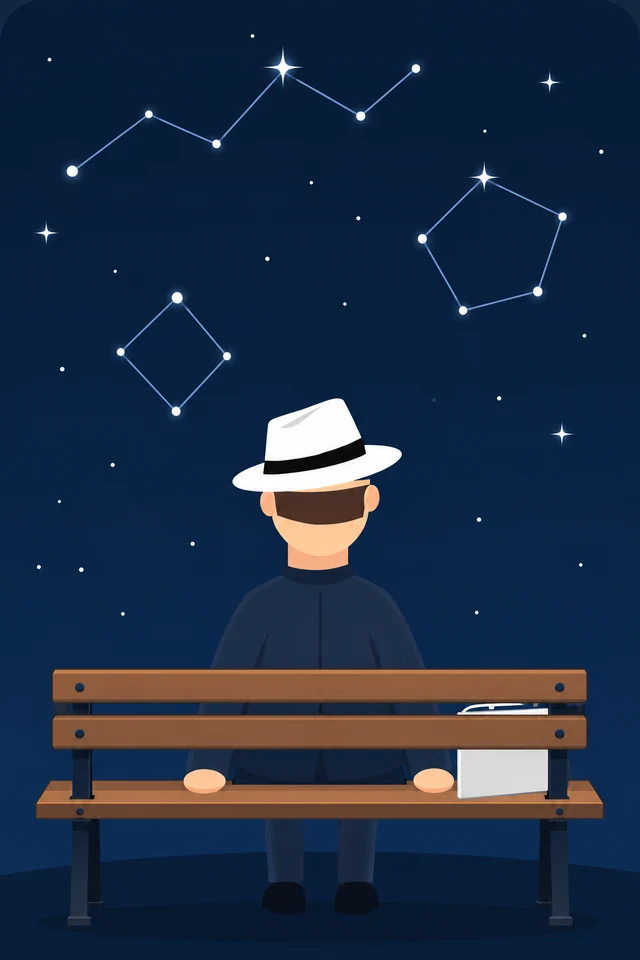
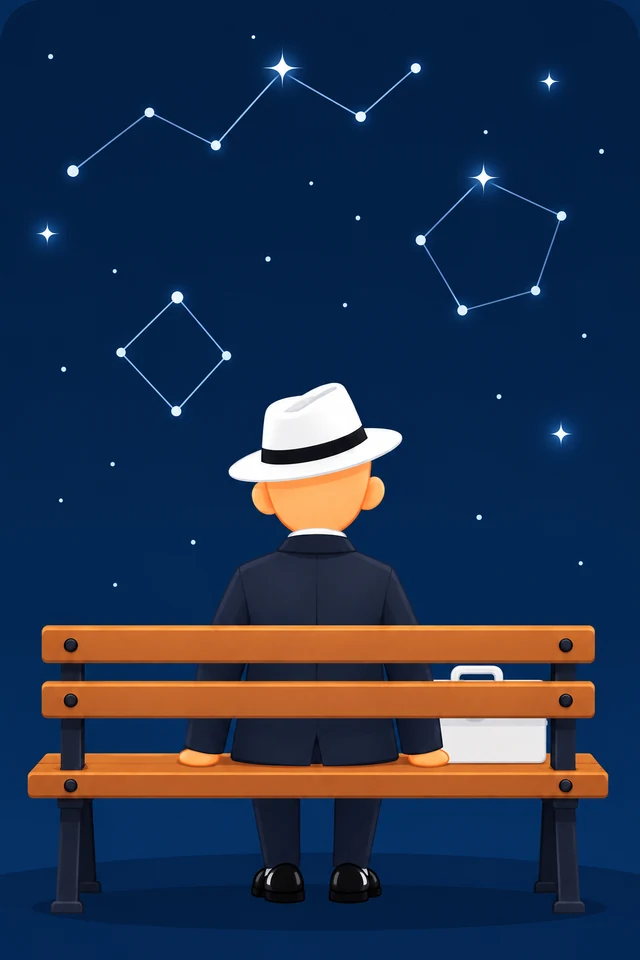
Refresh menu and score artwork
Add day and night desktop home illustrations, update menu and score-card artwork, and adjust score placement for each theme. Add a browser-based check with visual review captures.

diff --git a/src/shareCard.ts b/src/shareCard.ts
@@ -9,7 +9,7 @@ export function shareCardBackground(theme: 'light' | 'dark', baseUrl: string): s
   return `${baseUrl}images/${theme === 'dark' ? 'score-back-inverted.webp' : 'score-back.webp'}`;
 }
 
-export function drawShareCard(ctx: CanvasRenderingContext2D, score: number, background: HTMLImageElement, _theme: 'light' | 'dark' = 'light'): void {
+export function drawShareCard(ctx: CanvasRenderingContext2D, score: number, background: HTMLImageElement, theme: 'light' | 'dark' = 'light'): void {
   const width = background.naturalWidth;
   const height = background.naturalHeight;
   ctx.canvas.width = width;
@@ -17,26 +17,28 @@ export function drawShareCard(ctx: CanvasRenderingContext2D, score: number, back
   ctx.save();
   ctx.drawImage(background, 0, 0, width, height);
 
-  // Both replacement illustrations share the same inner-lid position.
-  // Center the two-line score block inside it, rather than on the whole card.
-  const centerX = width * 0.652;
+  // The new day/night illustrations have different native dimensions and lids.
+  // Keep both lines inside the blue panel, clear of the rim and hinges.
+  const centerX = width * (theme === 'dark' ? 0.71 : 0.70);
+  const artworkScale = Math.min(width, height) / 1254;
   ctx.textAlign = 'center';
   ctx.textBaseline = 'middle';
   ctx.shadowColor = 'rgba(0, 0, 0, 0.8)';
   ctx.shadowBlur = 12;
   ctx.fillStyle = '#f8fafc';
-  ctx.font = '700 28px "Space Grotesk", sans-serif';
-  ctx.fillText('BEST SCORE', centerX, height * 0.315);
+  ctx.font = `700 ${28 * artworkScale}px "Space Grotesk", sans-serif`;
+  ctx.fillText('BEST SCORE', centerX, height * (theme === 'dark' ? 0.405 : 0.414));
 
   const fullScore = formatShareScore(score);
   // A single line remains legible up to a safe integer; avoid microscopic type
   // for extreme values while leaving the full score in the accessible label/link.
   const value = fullScore.length > 24 ? Math.max(0, score).toExponential(3) : fullScore;
-  const maxWidth = width * 0.27;
-  ctx.font = '700 86px "Space Grotesk", sans-serif';
-  const fontSize = Math.max(32, Math.min(86, 86 * maxWidth / Math.max(1, ctx.measureText(value).width)));
+  const maxWidth = width * 0.34;
+  const baseFontSize = 86 * artworkScale;
+  ctx.font = `700 ${baseFontSize}px "Space Grotesk", sans-serif`;
+  const fontSize = Math.max(32 * artworkScale, Math.min(baseFontSize, baseFontSize * maxWidth / Math.max(1, ctx.measureText(value).width)));
   ctx.font = `700 ${fontSize}px "Space Grotesk", sans-serif`;
   ctx.fillStyle = '#54d3ac';
-  ctx.fillText(value, centerX, height * 0.38, maxWidth);
+  ctx.fillText(value, centerX, height * (theme === 'dark' ? 0.462 : 0.472), maxWidth);
   ctx.restore();
 }

diff --git a/src/MenuQuote.tsx b/src/MenuQuote.tsx
@@ -6,19 +6,21 @@ export function MenuQuote({ liveFeedEnabled }: { liveFeedEnabled: boolean }) {
     const element = quote.current;
     const actions = element?.parentElement;
     const app = actions?.closest('.game-app');
-    const hero = actions?.querySelector('.menu-celebration');
+    const heroes = actions?.querySelectorAll('.menu-celebration');
     const header = app?.querySelector('header');
     const feed = app?.querySelector('.desktop-live-feed-bar');
-    if (!element || !actions || !app || !hero || !header) return;
+    if (!element || !actions || !app || !heroes?.length || !header) return;
     const layout = () => {
       const feedRect = feed?.getBoundingClientRect();
       const top = liveFeedEnabled && feedRect && feedRect.height > 0
         ? feedRect.bottom : header.getBoundingClientRect().bottom;
+      const hero = Array.from(heroes).find(candidate => candidate.getClientRects().length > 0);
+      if (!hero) return;
       const bottom = hero.getBoundingClientRect().top;
       element.style.top = `${(top + bottom) / 2 - actions.getBoundingClientRect().top}px`;
     };
     const observer = new ResizeObserver(layout);
-    for (const target of [app, actions, hero, header, feed]) if (target) observer.observe(target);
+    for (const target of [app, actions, ...heroes, header, feed]) if (target) observer.observe(target);
     for (let parent = actions.parentElement; parent && parent !== app; parent = parent.parentElement) observer.observe(parent);
     // Parent layout effects can reposition the menu after the child's first measurement.
     const frame = requestAnimationFrame(layout);

diff --git a/src/MenuCelebration.tsx b/src/MenuCelebration.tsx
@@ -1,7 +1,9 @@
-// Front-facing celebration pose in the same suit/skin palette as the game.
+// Desktop uses the supplied artwork; touch layouts retain their compact SVG pose.
 export function MenuCelebration({ theme }: { theme: 'light' | 'dark' }) {
   const caseColor = theme === 'dark' ? '#ffffff' : '#05070a';
-  return <svg className="menu-celebration" viewBox="0 0 140 107.5" aria-hidden="true" focusable="false">
+  return <>
+    <img className="menu-celebration desktop-home-art" src={`${import.meta.env.BASE_URL}images/desktop-home-page${theme === 'dark' ? '-inverted' : ''}.webp`} width={1254} height={1254} alt="" aria-hidden="true" draggable={false} />
+    <svg className="menu-celebration touch-menu-celebration" viewBox="0 0 140 107.5" aria-hidden="true" focusable="false">
     <defs>
       <linearGradient id="menu-suit" x1="0" y1="0" x2="1" y2="1">
         <stop stopColor="#293d60" /><stop offset="1" stopColor="#101a2d" />
@@ -39,5 +41,6 @@ export function MenuCelebration({ theme }: { theme: 'light' | 'dark' }) {
         <path d="M-2 -2V1Q0 3 2 1V-2" fill="#efb58f" stroke="#d49570" strokeWidth="1" />
       </g>
     </g>
-  </svg>;
+    </svg>
+  </>;
 }

diff --git a/src/ShareDD.tsx b/src/ShareDD.tsx
@@ -38,7 +38,8 @@ export function ShareDD({ score, theme, scoreTheme = theme, demo = false, onClos
       if (cancelled) return;
       const ctx = canvas.current?.getContext('2d');
       if (!ctx || !canvas.current) { setError('Unable to generate the share image.'); return; }
-      drawShareCard(ctx, score, background, scoreTheme);
+      // Geometry follows the artwork theme, not the theme of the finished run.
+      drawShareCard(ctx, score, background, theme);
       // Ignore transparent rows below the shoes for display only; the exported
       // card retains the complete native image and its transparency.
       const pixels = ctx.getImageData(0, 0, background.naturalWidth, background.naturalHeight).data;

diff --git a/src/LandingScore.tsx b/src/LandingScore.tsx
@@ -38,8 +38,8 @@ export function LandingScore({ score, theme }: { score: number; theme: 'light' |
       if (right >= left && bottom >= top) {
         const cropped = ctx.getImageData(left, top, right - left + 1, bottom - top + 1);
         artworkAnchor.current = {
-          x: (image.naturalWidth * 0.407 - left) / cropped.width,
-          baseline: (image.naturalHeight * 0.965 - top) / cropped.height,
+          x: (image.naturalWidth * (theme === 'dark' ? 0.40 : 0.41) - left) / cropped.width,
+          baseline: (image.naturalHeight * 0.98 - top) / cropped.height,
         };
         ctx.canvas.width = cropped.width; ctx.canvas.height = cropped.height;
         ctx.putImageData(cropped, 0, 0);

diff --git a/src/index.css b/src/index.css
@@ -3725,6 +3725,25 @@ html .game-app .landing-menu-panel > .landing-menu-actions {
   pointer-events: none;
 }
 
+.desktop-home-art {
+  display: none;
+}
+
+@media (pointer: fine) {
+  html .game-app .landing-menu-panel > .landing-menu-actions {
+    --menu-hero-width: clamp(110px, 28dvh, 210px);
+    padding-top: var(--menu-hero-width);
+  }
+  .desktop-home-art {
+    display: block;
+    top: 0;
+    object-fit: contain;
+  }
+  .touch-menu-celebration {
+    display: none;
+  }
+}
+
 html .game-app .landing-menu-shared-score > .landing-menu-actions {
   padding-top: 0;
   transform: none;

diff --git a/scripts/optimize-images.py b/scripts/optimize-images.py
@@ -4,7 +4,8 @@ from PIL import Image
 
 root = Path(__file__).resolve().parents[1] / 'public' / 'images'
 for stem in ['crane', 'crane-inverted', 'crane-portrait', 'crane-portrait-inverted',
-             'menu-hero', 'menu-hero-inverted', 'score-back', 'score-back-inverted']:
+             'menu-hero', 'menu-hero-inverted', 'score-back', 'score-back-inverted',
+             'desktop-home-page', 'desktop-home-page-inverted']:
     image = Image.open(root / f'{stem}.png').convert('RGBA')
     if stem == 'crane-inverted':
         # The landscape night original has a 30px dark strip below the skyline.
